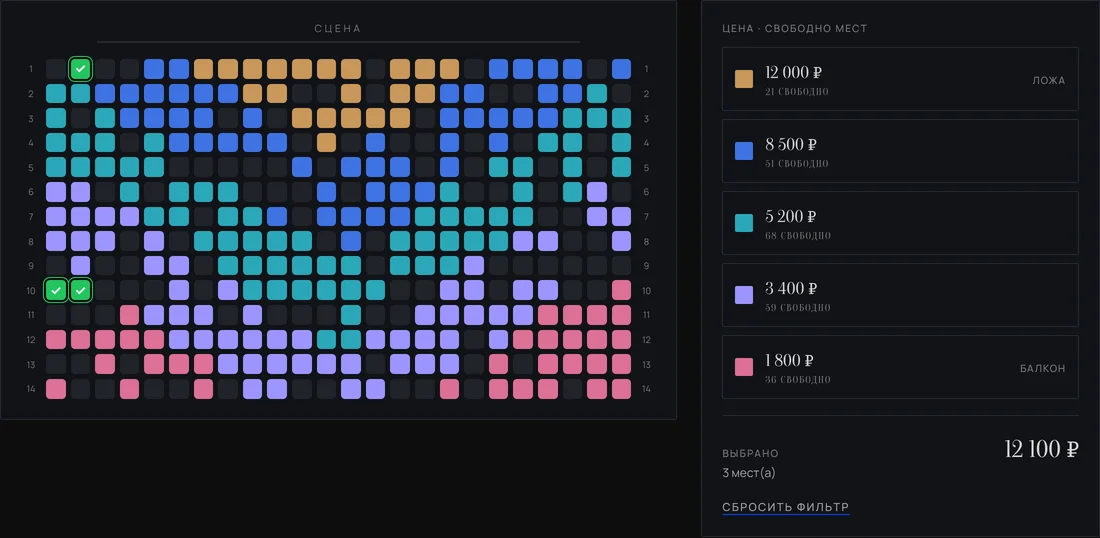
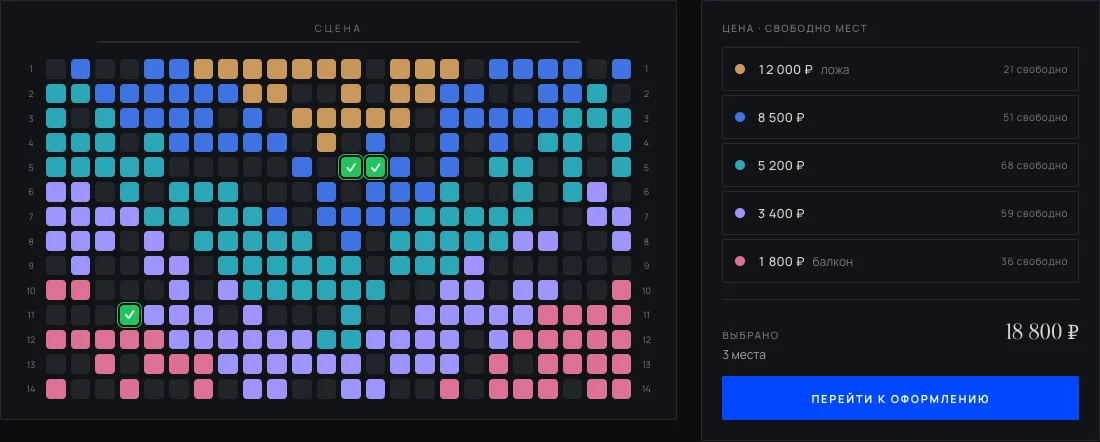
fix(site): five-price seat demo legend matches the big hall — Manrope prices, round dots, neutral selection, checkout button
R2 shots on the stand fixes page re-taken from the updated demo.

diff --git a/site/seat-price-filter-demo.html b/site/seat-price-filter-demo.html
@@ -7,8 +7,8 @@
 <link rel="stylesheet" href="https://fonts.googleapis.com/css2?family=Cormorant+Garamond:wght@400;500&family=Oranienbaum&family=Forum&family=Manrope:wght@400;500;600;700&display=swap">
 <link rel="stylesheet" href="https://fonts.googleapis.com/css2?family=Source+Serif+4:wght@400&text=%E2%82%BD&display=swap">
 <style>
-  :root { --ink:#0D0D0D; --n100:#D6D6D2; --n300:#A6A6A2; --n500:#7A7A78; --n800:#262930; --n900:#191C22; --n950:#111318;
-    --accent:#0047FF; --accent-ghost:#0B142A; --seat-sel:#22C55E; --seat-sold:#2C2F36; --seat-check:#FFFFFF; --r-sm:2px; --r-md:4px;
+  :root { --ink:#0D0D0D; --n100:#D6D6D2; --n300:#A6A6A2; --n500:#7A7A78; --n600:#626260; --n800:#262930; --n900:#191C22; --n950:#111318;
+    --accent:#0047FF; --accent-ghost:#0B142A; --on-accent:#FFFFFF; --seat-sel:#22C55E; --seat-sold:#2C2F36; --seat-check:#FFFFFF; --r-sm:2px; --r-md:4px;
     --font:'Manrope',system-ui,sans-serif; --f-num:'Oranienbaum','Source Serif 4',Georgia,serif; --f-head:'Forum',Georgia,serif; --f-thin:'Cormorant Garamond',Georgia,serif; }
   *, *::before, *::after { box-sizing: border-box; }
   body { margin:0; padding:32px 20px 64px; background:var(--ink); color:var(--n100); font-family:var(--font); -webkit-font-smoothing:antialiased; }
@@ -39,17 +39,23 @@
   .seat.sel::after { content:'✓'; position:absolute; inset:0; display:grid; place-items:center; font:700 13px/1 var(--font); color:var(--seat-check); }
   .aisle { width:0; }
 
-  .leg { display:grid; gap:8px; }
-  .chip { display:grid; grid-template-columns:18px 1fr auto; gap:12px; align-items:center; text-align:left; width:100%; font:500 13px var(--font); color:var(--n100);
-    background:transparent; border:1px solid var(--n800); border-radius:2px; padding:12px; cursor:pointer; }
-  .chip:hover { border-color:var(--n500); }
-  .chip[aria-pressed=true] { background:var(--accent-ghost); border-color:var(--accent); }
-  .chip i { width:18px; height:18px; border-radius:var(--r-sm); display:block; }
-  .chip .p { font-family:var(--f-num); font-size:17px; }
-  .chip .n { font-size:10px; color:var(--n500); display:block; margin-top:2px; letter-spacing:.1em; text-transform:uppercase; }
-  .sum { display:flex; justify-content:space-between; align-items:baseline; margin-top:16px; padding-top:16px; border-top:1px solid var(--n800); }
-  .sum b { font-family:var(--f-num); font-size:24px; font-weight:400; }
-  .reset { background:none; border:0; color:var(--n300); font:500 11px var(--font); letter-spacing:.14em; text-transform:uppercase; cursor:pointer; text-decoration:underline; text-decoration-color:var(--accent); text-underline-offset:3px; padding:0; }
+  /* легенда — как у большого зала: цифры Manrope, круглый значок, выбор серой рамкой, итог с кнопкой */
+  .leg-top { display:flex; justify-content:space-between; align-items:baseline; gap:12px; }
+  .leg { display:grid; gap:4px; margin-top:12px; }
+  .chip { display:grid; grid-template-columns:14px 1fr auto; gap:10px; align-items:center; width:100%; min-height:44px; padding:0 10px; text-align:left; color:var(--n100);
+    background:transparent; border:1px solid var(--n800); border-radius:var(--r-sm); font-family:var(--font); cursor:pointer; transition:background .15s, border-color .15s; }
+  .chip:hover { background:var(--n900); }
+  .chip[aria-pressed=true] { background:var(--n900); border-color:var(--n500); }
+  .chip i { width:10px; height:10px; border-radius:5px; justify-self:center; }
+  .chip .p { font-size:13px; font-weight:500; letter-spacing:.01em; font-variant-numeric:tabular-nums; }
+  .chip .z { margin-left:8px; font-size:12px; color:var(--n500); }
+  .chip .n { font-size:10px; color:var(--n500); letter-spacing:.06em; white-space:nowrap; }
+  .sum-box { display:grid; gap:12px; margin-top:16px; padding-top:16px; border-top:1px solid var(--n800); }
+  .sum { display:flex; justify-content:space-between; align-items:baseline; gap:12px; }
+  .sum b { font-family:var(--f-num); font-size:22px; font-weight:400; }
+  .buy { min-height:44px; width:100%; padding:0 18px; border:0; border-radius:var(--r-sm); background:var(--accent); color:var(--on-accent); font:700 11px var(--font); letter-spacing:.16em; text-transform:uppercase; cursor:pointer; }
+  .buy:disabled { background:var(--n800); color:var(--n600); cursor:default; }
+  .reset { background:none; border:0; color:var(--n300); font:500 11px var(--font); letter-spacing:.14em; text-transform:uppercase; cursor:pointer; text-decoration:underline; text-decoration-color:var(--accent); text-underline-offset:3px; padding:0; white-space:nowrap; }
   .note { font-size:12px; line-height:1.6; color:var(--n300); }
   .dE { font-size:12px; color:var(--n300); margin-top:12px; }
   .dE b { color:var(--n100); }
@@ -80,14 +86,16 @@
       <div class="hall" id="hall"></div>
     </div>
     <div class="panel">
-      <div class="cap">Цена · свободно мест</div>
-      <div class="leg" id="leg" style="margin-top:12px"></div>
-      <div class="sum"><div><div class="cap">Выбрано</div><span id="selN" class="note"></span></div><b id="selSum">0 ₽</b></div>
-      <div style="margin-top:12px"><button class="reset" id="reset" type="button">Сбросить фильтр</button></div>
+      <div class="leg-top"><div class="cap">Цена · свободно мест</div><button class="reset" id="reset" type="button" aria-label="Сбросить фильтр" hidden>Сбросить</button></div>
+      <div class="leg" id="leg"></div>
+      <div class="sum-box">
+        <div class="sum"><div><div class="cap">Выбрано</div><span id="selN" class="note"></span></div><b id="selSum">0 ₽</b></div>
+        <button class="buy" id="buy" type="button" disabled>Перейти к оформлению</button>
+      </div>
     </div>
   </div>
 
-  <p class="note">В режиме «Фильтр» нажатие на цену гасит все остальные места, оставшиеся светятся своим цветом: цвет перестаёт быть единственным способом найти категорию. Несколько цен можно включить вместе.</p>
+  <p class="note">В режиме «Фильтр» нажатие на цену гасит все остальные места, оставшиеся светятся своим цветом: цвет перестаёт быть единственным способом найти категорию. Несколько цен можно включить вместе, «Сбросить» над легендой снимает фильтр. Легенда — как у большого зала: цифры Manrope, круглый значок цены, выбранная цена — в серой рамке, итог с кнопкой оформления.</p>
 </div>
 
 <script>
@@ -168,17 +176,22 @@ function paint(){
     const free=seats.filter(s=>s.tier===i&&!s.sold).length;
     const b=document.createElement('button');b.type='button';b.className='chip';
     b.setAttribute('aria-pressed',active.has(i)&&filt==='on');
-    b.innerHTML=`<i style="background:${cols[i]}"></i><span class="p">${fmt(p)}<span class="n">${free} свободно</span></span><span class="n">${i===0?'ложа':i===4?'балкон':''}</span>`;
+    const zone=i===0?'ложа':i===4?'балкон':'';
+    b.setAttribute('aria-label',`${fmt(p)}${zone?', '+zone:''}, ${free} свободно`);
+    b.innerHTML=`<i style="background:${cols[i]}"></i><span><span class="p">${fmt(p)}</span>${zone?`<span class="z">${zone}</span>`:''}</span><span class="n">${free} свободно</span>`;
     b.onclick=()=>{ if(filt!=='on'){filt='on';} active.has(i)?active.delete(i):active.add(i); paint(); };
     leg.appendChild(b);
   });
   const arr=[...selected];
-  selN.textContent=arr.length?`${arr.length} ${arr.length===1?'место':'мест(а)'}`:'нет';
+  selN.textContent=arr.length?`${arr.length} ${plural(arr.length)}`:'нет';
+  buy.disabled=!arr.length;
+  reset.hidden=!useF;
   selSum.textContent=fmt(arr.reduce((a,id)=>a+prices[seats[id].tier],0));
 }
 const dE_=document.getElementById('dEout');
+const plural=n=>{const a=n%10,b=n%100;return a===1&&b!==11?'место':a>=2&&a<=4&&(b<12||b>14)?'места':'мест';};
 [sL,sH].forEach(s=>s.addEventListener('input',paint));
-reset.onclick=()=>{active.clear();selected.clear();paint();};
+reset.onclick=()=>{active.clear();paint();};
 paint();
 </script>
 </body>

diff --git a/site/handoff/stand-fixes/index.html b/site/handoff/stand-fixes/index.html
@@ -441,14 +441,14 @@
         <tr><td class="p">Выбранное место</td><td class="o" data-h="Сейчас">зелёное с галочкой; на зелёном балконе — инверсия (решение №11)</td><td class="n" data-h="Предложение">зелёное с галочкой на любой зоне; инверсия больше не нужна</td></tr>
         <tr><td class="p">Балкон рядом с выбранным местом</td><td class="o num" data-h="Сейчас">разница 5 ΔE — почти один цвет</td><td class="n num" data-h="Предложение">32 ΔE</td></tr>
         <tr><td class="p">Самая похожая пара зон</td><td class="o num" data-h="Сейчас">8,1 ΔE; при дальтонизме 3,3 — партер и бельэтаж</td><td class="n num" data-h="Предложение">A: 8,1 и 3,3, как сейчас · B: 14,6 и 7,3 — бельэтаж светлее, партер и бельэтаж различимы</td></tr>
-        <tr><td class="p">Фильтр по цене</td><td class="o" data-h="Сейчас">нет</td><td class="n" data-h="Предложение">нажатие на цену в легенде гасит остальные места до прозрачности 0,1; можно включить несколько цен; «Сбросить фильтр» возвращает всё</td></tr>
+        <tr><td class="p">Фильтр по цене</td><td class="o" data-h="Сейчас">нет</td><td class="n" data-h="Предложение">нажатие на цену в легенде гасит остальные места до прозрачности 0,1; можно включить несколько цен; «Сбросить» над легендой снимает фильтр. Легенда — как у большого зала: цифры Manrope, круглый значок, выбранная цена в серой рамке, итог с кнопкой оформления</td></tr>
         <tr><td class="p">Что дальше</td><td class="o" data-h="Сейчас">—</td><td class="n" data-h="Предложение">после выбора варианта цвета заменят <code>--zone-5</code>, в варианте B ещё <code>--zone-4</code>; классы зон <code>.smap-t-*</code> не меняются</td></tr>
       </table>
       <div class="shots">
-        <div class="col"><span class="lbl lbl-before">Демо · градиент, как на стенде</span><figure class="shot"><img src="img/seat-grad.webp" width="1100" height="516" alt="Демо схемы зала: цены градиентом синего и фиолетового, соседние категории близки" loading="lazy"></figure></div>
-        <div class="col"><span class="lbl lbl-new">Вариант A · малиновый балкон</span><figure class="shot"><img src="img/seat-crimson.webp" width="1100" height="516" alt="Демо схемы зала: ложа жёлтая, партер синий, амфитеатр бирюзовый, бельэтаж фиолетовый, балкон розово-малиновый" loading="lazy"></figure></div>
-        <div class="col"><span class="lbl lbl-new">Вариант B · бельэтаж светлее</span><figure class="shot"><img src="img/seat-crimson-light.webp" width="1100" height="516" alt="Демо схемы зала: как вариант A, бельэтаж светло-фиолетовый; три выбранных места зелёные с галочкой" loading="lazy"></figure></div>
-        <div class="col"><span class="lbl lbl-new">Фильтр по цене · включён балкон</span><figure class="shot"><img src="img/seat-crimson-filter.webp" width="1100" height="516" alt="Демо схемы зала с фильтром: светятся только места балкона, остальные погашены" loading="lazy"></figure></div>
+        <div class="col"><span class="lbl lbl-before">Демо · градиент, как на стенде</span><figure class="shot"><img src="img/seat-grad.webp" width="1100" height="442" alt="Демо схемы зала: цены градиентом синего и фиолетового, соседние категории близки" loading="lazy"></figure></div>
+        <div class="col"><span class="lbl lbl-new">Вариант A · малиновый балкон</span><figure class="shot"><img src="img/seat-crimson.webp" width="1100" height="442" alt="Демо схемы зала: ложа жёлтая, партер синий, амфитеатр бирюзовый, бельэтаж фиолетовый, балкон розово-малиновый" loading="lazy"></figure></div>
+        <div class="col"><span class="lbl lbl-new">Вариант B · бельэтаж светлее</span><figure class="shot"><img src="img/seat-crimson-light.webp" width="1100" height="442" alt="Демо схемы зала: как вариант A, бельэтаж светло-фиолетовый; три выбранных места зелёные с галочкой" loading="lazy"></figure></div>
+        <div class="col"><span class="lbl lbl-new">Фильтр по цене · включён балкон</span><figure class="shot"><img src="img/seat-crimson-filter.webp" width="1100" height="443" alt="Демо схемы зала с фильтром: светятся только места балкона, остальные погашены" loading="lazy"></figure></div>
       </div>
     
       <div class="part-h" style="border:0;padding:12px 0 0"><div class="meta-cap">Большой зал · демо <code>site/seat-big-hall-demo.html</code></div><h3 class="sub-h">15 цен и 6 зон</h3><p>Условный пример большого театра: партер, амфитеатр, бельэтаж с ложами, два яруса и балкон, 1 104 места. Цена зависит и от зоны, и от ряда. Пяти цветов на 15 цен не хватает, поэтому цвета — семьи: оттенок кодирует диапазон цен, светлота — цену внутри диапазона. Семьи цветов выбраны; градиент и вариант «только диапазоны» сняты.</p></div>
